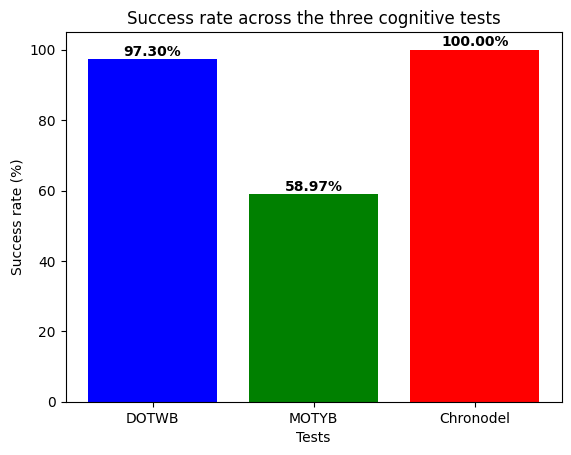
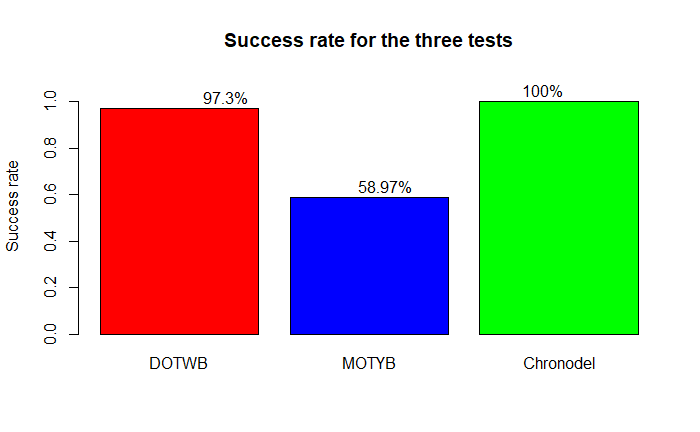
modifications

diff --git a/README.md b/README.md
@@ -83,6 +83,8 @@ The success rates of the three tests were analysed to assess their coherence and
 
 ## 5.4. Distribution 
 
+![Distribution](Images/Distribution.png)
+
 The final figure presents the distribution of results across the three tests, in order to assess **variability** and potential **ceiling effects**.
 
 # 6. Conclusion
